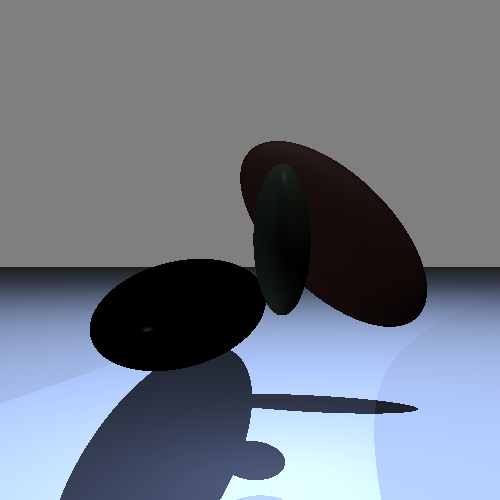
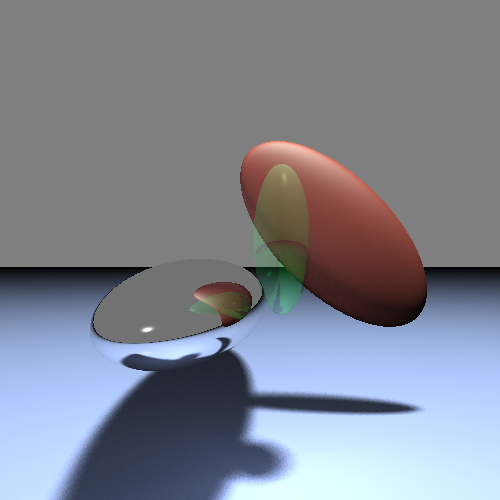
finishing the project

Changed region(s): [[0.0, 0.27, 1.0, 1.0], [0.42, 0.72, 0.84, 1.0], [0.75, 0.87, 1.0, 1.0]]

diff --git a/RayTracing2/src/Scene/Light.java b/RayTracing2/src/Scene/Light.java
@@ -2,6 +2,8 @@ package Scene;
 
 
 
+import java.util.Random;
+
 import RayTracing.Color;
 import RayTracing.Ray;
 import RayTracing.Vector3;
@@ -24,6 +26,11 @@ public class Light
 	private double specularIntensity;
 	private double shadowIntensity;
 	private double radius;
+	
+	private Vector3 towards;
+	private Vector3 right;
+	private Vector3 up;
+	private Vector3 p1;
 	
 	public Vector3 getPosition()
 	{
@@ -75,10 +82,67 @@ public class Light
 		this.radius = radius;
 	}
 	
+	public Vector3 getTowards()
+	{
+		return towards;
+	}
+	
+	public Vector3 getRight()
+	{
+		return right;
+	}
+	
+	public Vector3 getUp()
+	{
+		return up;
+	}
+	
+	public Vector3 getP1()
+	{
+		return p1;
+	}
+	
+	public void computeLightArea(Vector3 point, int numOfShadowRays)
+	{
+		towards = point.sub(position);
+		towards.normal();
+		
+		right = towards.crossProduct(new Vector3((double)0.0, (double)1.0, (double)0.0));//.mul(-1);
+		right.normal();
+		
+		up = towards.crossProduct(right);//.mul(-1);
+		up.normal();
+		
+		double cellSize = radius/numOfShadowRays;
+		Vector3 u = right.mul((cellSize * numOfShadowRays)/2.0);
+		Vector3 w = up.mul((cellSize * numOfShadowRays)/2.0);
+		p1 = position.sub(u).sub(w);
+
+	}
+	
 	public Ray createRay(Vector3 point, int numOfShadowRays, int i, int j)
 	{
-		Vector3 V = this.position.sub(point);
+		
+		double cellSize = radius/numOfShadowRays;
+		
+		Random rand = new Random();
+		Vector3 v = right.mul((i + rand.nextDouble()) * cellSize);
+		Vector3 u = up.mul((j + rand.nextDouble()) * cellSize);
+		Vector3 p = p1.add(v.add(u));
+		
+		Vector3 V;
+		if (radius == 0)
+		{
+			V = this.position.sub(point);
+		}
+		else
+		{
+			V = p.sub(point);
+		
+		}
+		
 		V.normal();
-		return new Ray(point.add(V.mul(0.001)), V);
+		return new Ray(point.add(V.mul(0.00001)), V);
+		
 	}
 }

diff --git a/RayTracing2/src/Scene/Scene.java b/RayTracing2/src/Scene/Scene.java
@@ -261,12 +261,15 @@ public class Scene
 				red = material.getSpecular().getR() * light.getColor().getR() * light.getSpecularIntensity() * rv;
 				green = material.getSpecular().getG() * light.getColor().getG() * light.getSpecularIntensity() * rv;
 				blue = material.getSpecular().getB() * light.getColor().getB() * light.getSpecularIntensity() * rv;
-				tempPixelColor = tempPixelColor.add(new Vector3(red,blue,green));
+				tempPixelColor = tempPixelColor.add(new Vector3(red,green,blue));
 
 			}
 			//calc shadow
 			
-			tempPixelColor = tempPixelColor.mul(1-light.getShadowIntensity()*(getLightAmount(light, point)));
+			if (light.getShadowIntensity() != 0)
+			{
+				tempPixelColor = tempPixelColor.mul(1-light.getShadowIntensity()*(getLightAmount(light, point)));	
+			}
 			
 			pixelColor = pixelColor.add(tempPixelColor);
 		}
@@ -278,18 +281,31 @@ public class Scene
 	{
 		int count = 0;
 		boolean flag = false;
+		
+		light.computeLightArea(point, this.getNumOfShadowRays());
+		
 		for (int i = 0; i < this.getNumOfShadowRays(); i++)
 		{
 			for (int j = 0; j < this.getNumOfShadowRays(); j++)
 			{
 				Ray ray = light.createRay(point, this.getNumOfShadowRays(), i, j);
 				
+				flag = false;
 				for (Surface surface : this.getSurfaces())
 				{
-					if (!Double.isInfinite(surface.intersect(ray)))
+					double t = surface.intersect(ray);
+					if (!Double.isInfinite(t))
 					{
-						flag = true;
-						break;
+						Vector3 intersectionPoint = ray.getP0().add(ray.getV().mul(t));
+						Vector3 distToLight = light.getPosition().sub(ray.getP0());
+						Vector3 distToIntersect = intersectionPoint.sub(ray.getP0());
+						
+						if (distToLight.length() >= distToIntersect.length())
+						{
+							flag = true;
+							break;
+						}
+						
 					}
 				}
 				

diff --git a/RayTracing2/src/RayTracing/RayTracer.java b/RayTracing2/src/RayTracing/RayTracer.java
@@ -57,9 +57,20 @@ public class RayTracer
 			// ///////////////////////////////////////////////
 			// for testing - comment out before submitting //
 			// ///////////////////////////////////////////////
-			String[] inputFiles = { "Ellipsoids.txt", "ManySpheres_Narrow.txt", "ManySpheres_Normal.txt",
-					"ManySpheres_Wide.txt", "Pool.txt", "Room.txt", "Bubbles.txt", "EllipsoidsCompare.txt",
-					"MirrorBalls.txt", "SciFi.txt", "Spheres.txt", "SpheresCompare.txt", "Transparency.txt" };
+			String[] inputFiles = {"Room.txt", 
+					"MirrorBalls.txt", 
+									"SciFi.txt",
+									 
+									"Spheres.txt",
+									"Ellipsoids.txt", 
+									"ManySpheres_Narrow.txt", 
+									"ManySpheres_Normal.txt",
+									"ManySpheres_Wide.txt", 
+									"Pool.txt", 
+									"Bubbles.txt", 
+									"EllipsoidsCompare.txt",
+									"SpheresCompare.txt", 
+									"Transparency.txt" };
 			/*String[] inputFiles = { "Part1_Ellipsoids.txt",
 					"Part1_ManySpheres_Narrow.txt",
 					"Part1_ManySpheres_Normal.txt",
@@ -386,7 +397,7 @@ public class RayTracer
 		{
 			for (int j = 0; j < imageWidth; j++)
 			{
-				if (i == 279 && j == 217)
+				if (i == 141 && j == 489)
 					System.out.println();
 				
 				Color col = scene.getColorForPixel(i, j, imageWidth);
